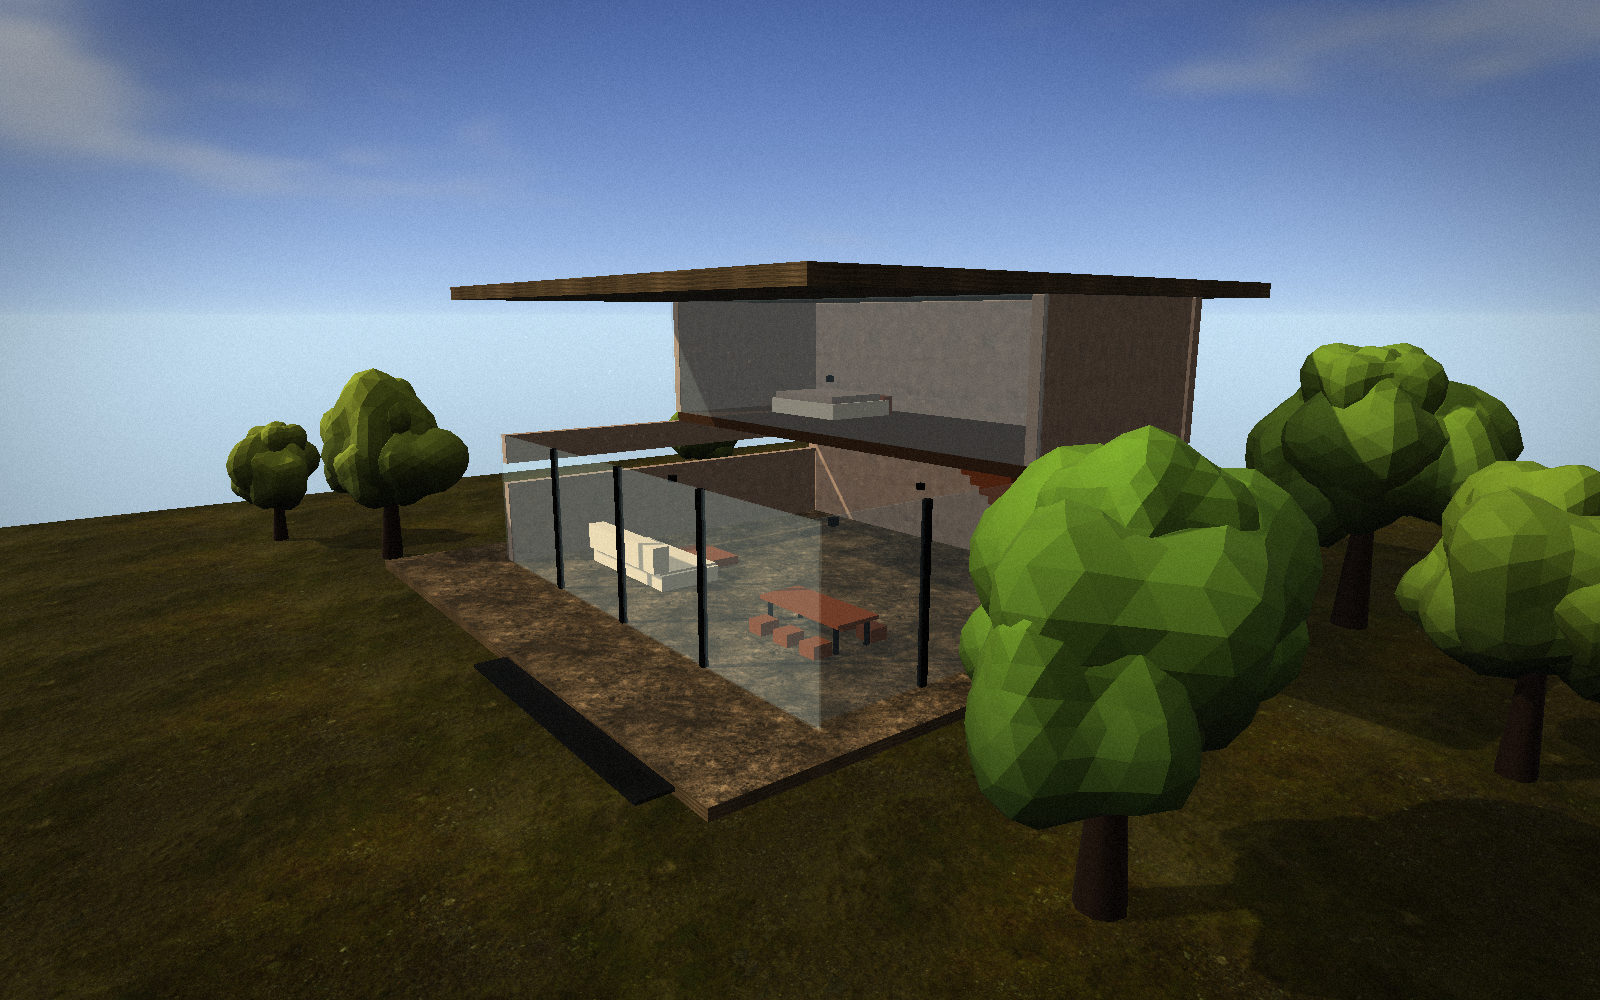
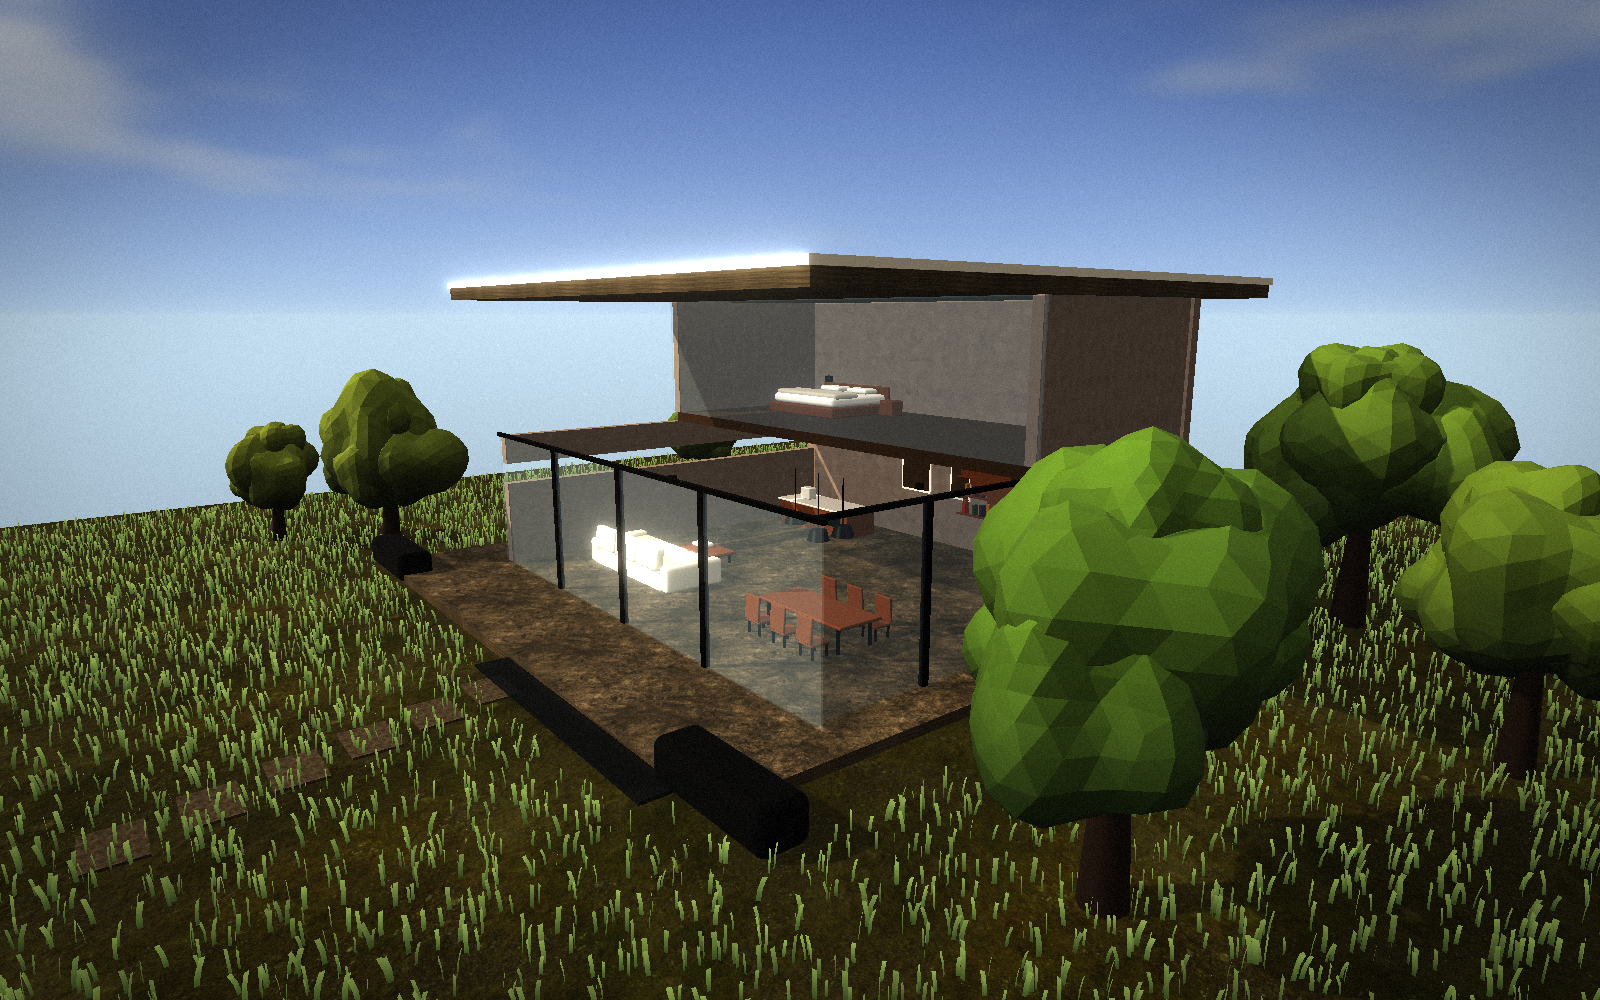
feat: house realism max pass — rounded furniture, kitchen, shelves, pendants, instanced wind-swayed lawn, window profiles, fascia, interior day fill

diff --git a/designs/01-house-walkthrough/index.html b/designs/01-house-walkthrough/index.html
@@ -172,6 +172,7 @@
 <script type="module">
 import { THREE, gsap, ScrollTrigger, makeRenderer, makeComposer, attachLifecycle, smoothScroll, loop, onResize, loaderOverlay, reducedMotion, mapClamp } from '../../shared/lib.js';
 import { RoomEnvironment } from 'three/addons/environments/RoomEnvironment.js';
+import { RoundedBoxGeometry } from 'three/addons/geometries/RoundedBoxGeometry.js';
 import { RenderPass } from 'three/addons/postprocessing/RenderPass.js';
 import { UnrealBloomPass } from 'three/addons/postprocessing/UnrealBloomPass.js';
 import { ShaderPass } from 'three/addons/postprocessing/ShaderPass.js';
@@ -286,7 +287,10 @@ const M = {
   floor: new THREE.MeshStandardMaterial({ ...pbr('wood_floor_deck', 4, 3.3), roughness: 1, metalness: 0, emissive: '#ffa050', emissiveIntensity: 0 }),
   darkFloor: new THREE.MeshStandardMaterial({ color: '#5e4a36', roughness: 0.5, metalness: 0 }),
   wood: new THREE.MeshStandardMaterial({ color: '#8a5a36', roughness: 0.6, metalness: 0 }),
-  fabric: new THREE.MeshStandardMaterial({ color: '#b9b2a4', roughness: 0.95, metalness: 0 }),
+  fabric: new THREE.MeshStandardMaterial({ color: '#d3ccbd', roughness: 0.95, metalness: 0 }),
+  rug: new THREE.MeshStandardMaterial({ color: '#c9c2b2', roughness: 1, metalness: 0 }),
+  trim: new THREE.MeshStandardMaterial({ color: '#f2eee4', roughness: 0.6, metalness: 0 }),
+  counter: new THREE.MeshStandardMaterial({ color: '#e8e4da', roughness: 0.3, metalness: 0 }),
   metal: new THREE.MeshStandardMaterial({ color: '#2a2723', roughness: 0.35, metalness: 0.9 }),
   glass: new THREE.MeshStandardMaterial({ color: '#b8ccd6', roughness: 0.05, metalness: 0, transparent: true, opacity: 0.12, envMapIntensity: 1.0, side: THREE.DoubleSide }),
   ground: new THREE.MeshStandardMaterial({ ...pbr('aerial_grass_rock', 7), color: '#b3c489', roughness: 1, metalness: 0 }),
@@ -302,6 +306,14 @@ function box(w, h, d, mat, x, y, z, { cast = true, receive = true } = {}) {
   const m = new THREE.Mesh(new THREE.BoxGeometry(w, h, d), mat);
   m.position.set(x, y + h / 2, z);
   m.castShadow = cast; m.receiveShadow = receive;
+  root.add(m);
+  return m;
+}
+// soft-edged volume — hard box corners are the single biggest "toy model" tell on furniture
+function rbox(w, h, d, r, mat, x, y, z) {
+  const m = new THREE.Mesh(new RoundedBoxGeometry(w, h, d, 3, r), mat);
+  m.position.set(x, y + h / 2, z);
+  m.castShadow = true; m.receiveShadow = true;
   root.add(m);
   return m;
 }
@@ -326,9 +338,14 @@ function box(w, h, d, mat, x, y, z, { cast = true, receive = true } = {}) {
   // a couple of slender mullions standing in for the south/east glass plane
   for (let i = -1; i <= 1; i++) box(0.12, 3.4, 0.12, M.metal, i * 3, 0, 5);
   for (let i = -1; i <= 1; i++) box(0.12, 3.4, 0.12, M.metal, 6, 0, i * 2.6);
-  // glass planes (south + east)
+  // glass planes (south + east) with slim head/sill profiles — frames are what make
+  // glazing read as architecture instead of a ghost plane
   box(12.4, 3.4, 0.04, M.glass, 0, 0, 5, { cast: false });
   box(0.04, 3.4, 10, M.glass, 6, 0, 0, { cast: false });
+  box(12.5, 0.09, 0.09, M.metal, 0, 3.36, 5, { cast: false });
+  box(12.5, 0.09, 0.09, M.metal, 0, 0, 5, { cast: false });
+  box(0.09, 0.09, 10.1, M.metal, 6, 3.36, 0, { cast: false });
+  box(0.09, 0.09, 10.1, M.metal, 6, 0, 0, { cast: false });
 
   // first-floor slab over the north half → double-height living room to the south
   box(12, 0.25, 5, M.darkFloor, 0, 3.4, -2.5, { receive: true });
@@ -337,8 +354,17 @@ function box(w, h, d, mat, x, y, z, { cast = true, receive = true } = {}) {
   box(0.25, 3.0, 5, M.warmWall, -6, 3.65, -2.5);
   box(0.25, 3.0, 5, M.warmWall, 6, 3.65, -2.5);
   box(12.4, 3.0, 0.04, M.glass, 0, 3.65, 0, { cast: false });     // upper glass facing the void/south
-  // roof with overhang
+  // roof with overhang + a crisp white fascia band (the modernist edge line).
+  // Matte + env-damped: with the bright RoomEnvironment reflected in it, a smooth
+  // white band read as a glowing LED strip, especially at night.
+  const fascia = new THREE.MeshStandardMaterial({ color: '#ddd8ca', roughness: 0.9, metalness: 0, envMapIntensity: 0.12 });
   box(13.6, 0.3, 12.5, M.concrete, 0, 6.65, -0.5);
+  box(13.7, 0.14, 12.6, fascia, 0, 6.92, -0.5, { cast: false });
+
+  // stepping-stone path from the terrace out to the lawn
+  for (let i = 0; i < 6; i++) box(1.0, 0.06, 0.7, M.concrete, 1.2 + i * 0.35, -0.02, 8.2 + i * 1.05, { cast: false });
+  // low clipped hedges flanking the terrace
+  for (const hx of [-7.6, 6.9]) rbox(2.6, 0.7, 0.8, 0.18, M.foliage, hx, 0, 7.2);
 
   // --- stair along the north wall (folded run of treads)
   const steps = 12;
@@ -346,21 +372,68 @@ function box(w, h, d, mat, x, y, z, { cast = true, receive = true } = {}) {
     box(1.4, 0.18, 0.42, M.wood, 3.2, 0.1 + i * 0.27, -3.4 - i * 0.0 + (i * 0.32) * 0 - 0 + (-2.2 + i * 0.32), { });
   }
 
-  // --- ground-floor furniture: living commons (south-west)
-  box(3.2, 0.5, 1.5, M.fabric, -3, 0.1, 2.6);      // sofa seat
-  box(3.2, 0.6, 0.4, M.fabric, -3, 0.6, 3.3);      // sofa back
-  box(0.4, 0.45, 1.5, M.fabric, -4.5, 0.1, 2.6);   // sofa arm
-  box(0.4, 0.45, 1.5, M.fabric, -1.5, 0.1, 2.6);   // sofa arm
-  box(1.6, 0.35, 0.9, M.wood, -3, 0.05, 1.1);      // coffee table
-  // dining (south-east)
-  box(2.4, 0.08, 1.0, M.wood, 3, 0.74, 2.4);       // dining top
-  for (const dx of [-1, 1]) for (const dz of [-0.38, 0.38]) box(0.08, 0.74, 0.08, M.metal, 3 + dx, 0, 2.4 + dz);
-  for (const dx of [-0.8, 0, 0.8]) { box(0.42, 0.46, 0.42, M.wood, 3 + dx, 0, 1.7); box(0.42, 0.46, 0.42, M.wood, 3 + dx, 0, 3.1); }
+  // --- ground-floor furniture: living commons (south-west), rounded volumes + layered
+  // cushions — furniture reads as designed objects, not stacked boxes
+  box(4.6, 0.03, 3.2, M.rug, -3, 0.12, 2.3, { cast: false });          // area rug
+  rbox(3.3, 0.34, 1.55, 0.07, M.fabric, -3, 0.16, 2.6);                // sofa base
+  for (const dx of [-1.02, 0, 1.02]) rbox(1.0, 0.2, 1.35, 0.07, M.fabric, -3 + dx, 0.5, 2.55);   // seat cushions
+  for (const dx of [-1.02, 0, 1.02]) {
+    const c = rbox(0.98, 0.55, 0.22, 0.08, M.fabric, -3 + dx, 0.62, 3.28);
+    c.rotation.x = -0.12;                                              // reclined back cushions
+  }
+  rbox(0.34, 0.62, 1.5, 0.09, M.fabric, -4.72, 0.16, 2.6);             // arms
+  rbox(0.34, 0.62, 1.5, 0.09, M.fabric, -1.28, 0.16, 2.6);
+  rbox(1.5, 0.09, 0.85, 0.04, M.wood, -3, 0.42, 1.1);                  // coffee table top
+  for (const [lx, lz] of [[-0.6, -0.32], [0.6, -0.32], [-0.6, 0.32], [0.6, 0.32]])
+    box(0.05, 0.42, 0.05, M.metal, -3 + lx, 0, 1.1 + lz);
+  rbox(0.5, 0.1, 0.36, 0.04, M.trim, -3.2, 0.52, 1.05);                // book stack on table
+
+  // dining (south-east): thin top, slender steel legs, real chairs with backs
+  rbox(2.5, 0.07, 1.05, 0.03, M.wood, 3, 0.72, 2.4);
+  for (const dx of [-1.05, 1.05]) for (const dz of [-0.4, 0.4]) box(0.06, 0.72, 0.06, M.metal, 3 + dx, 0, 2.4 + dz);
+  for (const dx of [-0.8, 0, 0.8]) for (const dz of [1.62, 3.18]) {
+    rbox(0.44, 0.06, 0.44, 0.03, M.wood, 3 + dx, 0.44, dz);            // seat
+    for (const [lx, lz] of [[-0.17, -0.17], [0.17, -0.17], [-0.17, 0.17], [0.17, 0.17]])
+      box(0.04, 0.44, 0.04, M.metal, 3 + dx + lx, 0, dz + lz);
+    const back = rbox(0.44, 0.5, 0.05, 0.02, M.wood, 3 + dx, 0.5, dz + (dz < 2.4 ? -0.2 : 0.2));
+    back.rotation.x = dz < 2.4 ? 0.08 : -0.08;
+  }
+  // pendant cluster over the table — fixtures read at day, glow at night via bloom
+  for (const dx of [-0.7, 0, 0.7]) {
+    box(0.02, 1.1 - Math.abs(dx) * 0.3, 0.02, M.metal, 3 + dx, 3.4 - (1.1 - Math.abs(dx) * 0.3), 2.4, { cast: false });
+    const shade = new THREE.Mesh(new THREE.CylinderGeometry(0.16, 0.22, 0.2, 24), M.metal);
+    shade.position.set(3 + dx, 2.2 + Math.abs(dx) * 0.3, 2.4);
+    shade.castShadow = true; root.add(shade);
+  }
+
+  // kitchen island against the west wall + wall shelf with books
+  rbox(3.0, 0.88, 1.05, 0.03, M.wood, -3.8, 0, -3.6);
+  rbox(3.12, 0.06, 1.15, 0.02, M.counter, -3.8, 0.88, -3.6);           // counter top
+  rbox(0.4, 0.34, 0.28, 0.03, M.counter, -4.6, 0.94, -3.6);            // sink hint
+  for (let s = 0; s < 4; s++) box(2.6, 0.035, 0.26, M.wood, 1.5, 1.15 + s * 0.5, -4.83);  // shelves
+  {
+    const rnd = ((a) => () => { a |= 0; a = (a + 0x6D2B79F5) | 0; let t = Math.imul(a ^ (a >>> 15), 1 | a); t = (t + Math.imul(t ^ (t >>> 7), 61 | t)) ^ t; return ((t ^ (t >>> 14)) >>> 0) / 4294967296; })(31);
+    const bookCols = ['#a34a32', '#4a5d3a', '#33465e', '#b98a4a', '#7a4a5e', '#5e5a4a'];
+    for (let s = 0; s < 4; s++) for (let b = 0; b < 9; b++) {
+      if (rnd() < 0.25) continue;
+      const bw = 0.06 + rnd() * 0.05, bh = 0.26 + rnd() * 0.14;
+      box(bw, bh, 0.2, new THREE.MeshStandardMaterial({ color: bookCols[(s * 9 + b) % 6], roughness: 0.9 }),
+        0.45 + b * 0.26 + rnd() * 0.06, 1.19 + s * 0.5, -4.82, { cast: false });
+    }
+  }
+  // framed art on the north wall
+  for (const [ax, aw, ah] of [[-1.4, 1.1, 1.4], [0.2, 0.7, 0.9]]) {
+    box(aw, ah, 0.05, M.trim, ax, 1.5, -4.86, { cast: false });
+    box(aw - 0.12, ah - 0.12, 0.02, M.darkFloor, ax, 1.56, -4.83, { cast: false });
+  }
 
   // --- upper-floor furniture: bedroom (north-west, on the slab)
-  box(2.6, 0.4, 2.0, M.fabric, -3, 3.65, -3);      // bed base
-  box(2.6, 0.5, 0.3, M.wood, -3, 3.65, -3.95);     // headboard
-  box(2.4, 0.18, 1.7, M.warmWall, -3, 4.05, -2.9); // mattress/duvet
+  rbox(2.7, 0.28, 2.1, 0.05, M.wood, -3, 3.68, -3);                    // bed frame
+  rbox(2.5, 0.24, 1.9, 0.09, M.trim, -3, 3.96, -3);                    // mattress
+  rbox(2.5, 0.16, 0.8, 0.07, M.fabric, -3, 4.14, -2.55);               // folded duvet
+  for (const px of [-0.55, 0.55]) rbox(0.8, 0.14, 0.45, 0.06, M.trim, -3 + px, 4.2, -3.7);  // pillows
+  rbox(2.7, 0.5, 0.08, 0.03, M.wood, -3, 3.9, -3.98);                  // headboard
+  for (const nx of [-4.6, -1.4]) rbox(0.5, 0.4, 0.4, 0.03, M.wood, nx, 3.68, -3.8);         // nightstands
 
   // --- trees outside: organic displaced crowns with a baked volume gradient
   // (dark underside → sun-lit top) + per-tree hue/shape variation, so they read
@@ -412,6 +485,59 @@ function box(w, h, d, mat, x, y, z, { cast = true, receive = true } = {}) {
   }
 })();
 
+// ---------------------------------------------------------------- instanced grass
+// The single biggest ground-realism lever: ~14k wind-swayed blades replace the flat
+// texture read. ShaderMaterial → instanceMatrix applied manually (02's lesson).
+const grassUniforms = { uTime: { value: 0 }, uNight: { value: 0 } };
+(function buildGrass() {
+  const rnd = ((a) => () => { a |= 0; a = (a + 0x6D2B79F5) | 0; let t = Math.imul(a ^ (a >>> 15), 1 | a); t = (t + Math.imul(t ^ (t >>> 7), 61 | t)) ^ t; return ((t ^ (t >>> 14)) >>> 0) / 4294967296; })(1234);
+  const COUNT = 20000;
+  const geo = new THREE.PlaneGeometry(0.05, 0.28, 1, 2);   // lawn, not reeds
+  geo.translate(0, 0.14, 0);
+  const mat = new THREE.ShaderMaterial({
+    side: THREE.DoubleSide,
+    uniforms: grassUniforms,
+    vertexShader: `
+      uniform float uTime;
+      varying float vH; varying float vShade;
+      void main(){
+        vH = position.y / 0.28;
+        vec4 local = vec4(position, 1.0);
+        vShade = fract(instanceMatrix[3][0] * 0.43 + instanceMatrix[3][2] * 0.71);
+        // wind: bend increases toward the tip, phase varies per blade position
+        float sway = sin(uTime * 1.6 + instanceMatrix[3][0] * 0.8 + instanceMatrix[3][2] * 1.1) * 0.05 * vH * vH;
+        local.x += sway; local.z += sway * 0.6;
+        vec4 w = modelMatrix * instanceMatrix * local;
+        gl_Position = projectionMatrix * viewMatrix * w;
+      }`,
+    fragmentShader: `
+      uniform float uNight;
+      varying float vH; varying float vShade;
+      void main(){
+        vec3 base = mix(vec3(0.25, 0.33, 0.14), vec3(0.56, 0.66, 0.31), vH);   // dark root → lit tip
+        base *= 0.85 + vShade * 0.3;
+        base *= mix(1.0, 0.2, uNight);   // unlit shader — must follow the day into darkness
+        gl_FragColor = vec4(base, 1.0);
+      }`,
+  });
+  const inst = new THREE.InstancedMesh(geo, mat, COUNT);
+  inst.receiveShadow = true;
+  const m = new THREE.Matrix4(), q = new THREE.Quaternion(), e = new THREE.Euler(), s = new THREE.Vector3(), p = new THREE.Vector3();
+  let placed = 0;
+  while (placed < COUNT) {
+    const x = (rnd() - 0.5) * 38, z = (rnd() - 0.5) * 38;
+    if (x > -8.2 && x < 8.2 && z > -6.2 && z < 7.8) continue;   // house + terrace footprint
+    if (x > 0 && x < 6.6 && z > 4.6 && z < 8.4) continue;       // pool
+    p.set(x, 0, z);
+    e.set((rnd() - 0.5) * 0.12, rnd() * 6.28, (rnd() - 0.5) * 0.12); q.setFromEuler(e);
+    const sc = 0.65 + rnd() * 0.5; s.set(sc, sc, sc);
+    m.compose(p, q, s);
+    inst.setMatrixAt(placed++, m);
+  }
+  inst.instanceMatrix.needsUpdate = true;
+  scene.add(inst);
+})();
+
 // ---------------------------------------------------------------- lights
 const sun = new THREE.DirectionalLight('#ffd9a0', 3.2);
 sun.castShadow = true;
@@ -424,6 +550,12 @@ scene.add(sun, sun.target);
 
 const ambient = new THREE.HemisphereLight('#b89878', '#14110c', 0.35);
 scene.add(ambient);
+
+// daylight interior fill — fakes sky bounce under the deep roof overhang so the
+// living space doesn't sink into mud while the sun is up
+const fill = new THREE.PointLight('#fff2e2', 1.3, 16, 2);
+fill.position.set(0, 2.6, 0.8);
+scene.add(fill);
 
 // interior lights that come on at night
 const interiorLights = [];
@@ -510,7 +642,9 @@ function applyDay(t) {
   ambient.intensity = lerp(a.ambI, b.ambI, k);
   const pt = lerp(a.pt, b.pt, k);
   for (const p of interiorLights) p.intensity = pt * 10;     // real room fill once the sun is gone
-  M.warmWall.emissiveIntensity = pt * 0.42;                  // surfaces self-glow → bloom → lantern
+  fill.intensity = 1.3 * (1 - pt);                           // day bounce hands over to the lamps
+  M.warmWall.emissiveIntensity = pt * 0.3;                   // surfaces self-glow → bloom → lantern
+  grassUniforms.uNight.value = pt;
   M.floor.emissiveIntensity = pt * 0.30;
   renderer.toneMappingExposure = lerp(a.expo, b.expo, k);
   bloom.strength = 0.18 + pt * 0.55;
@@ -596,6 +730,7 @@ loop((elapsed, dt) => {
   dust.position.y = Math.sin(elapsed * 0.2) * 0.15;
   vig.uniforms.uTime.value = elapsed;
   skyUniforms.uTime.value = elapsed;
+  grassUniforms.uTime.value = reducedMotion ? 0 : elapsed;
   composer.render();
 });
 
